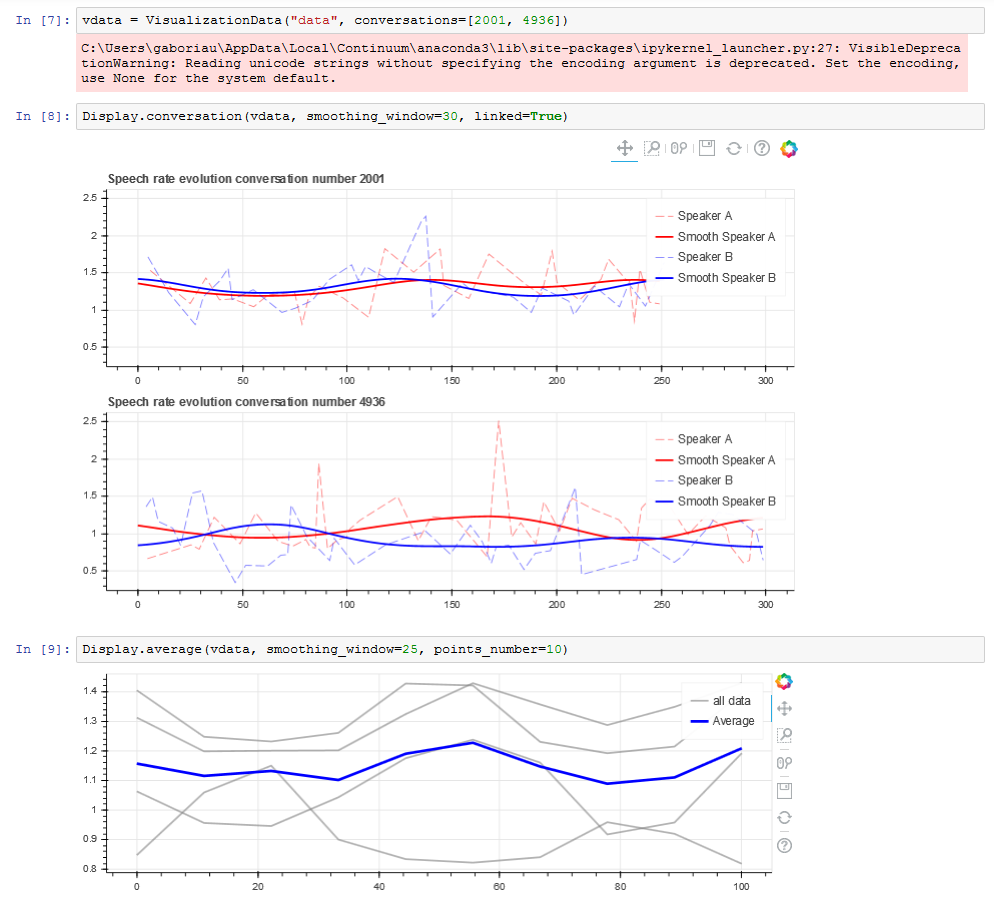
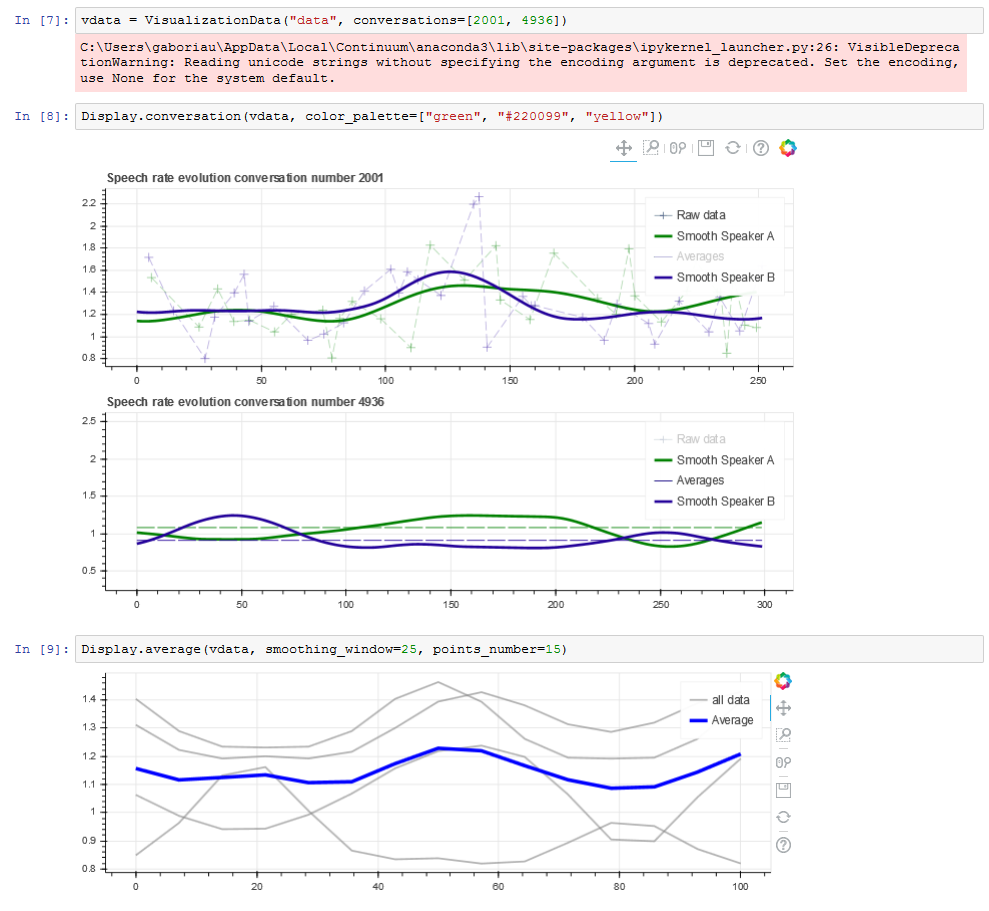
Visual changes, average added to conversation plot and window lenght adaptation improved

diff --git a/README.md b/README.md
@@ -11,11 +11,10 @@ data2 = VisualizationData("data_directory", conversation=[2001,2002,2003], speak
 
 *corpus* et *data_type* sont aussi des filtres disponibles.
 
-* **Fonctions d'affichage de la classe *Display* ** 
-  * ***Display.conversation*** affiche l'évolution du débit de parole des conversations composées des données selectionnées par l'objet *VisualizationData* passé en paramètre à coté de l'optionnel paramètre binaire *linked* qui à *True* synchronise l'affichage de chaque conversations, c'est à dire que l'on se déplace et selectionnent dans tous les graphiques à la fois. Par exemple le zoom appliqué sur une conversation est immédiatement répercuté sur les autres pour que la plages des abscisses et ordonnés restent les même.
+* **Fonctions d'affichage de la classe *Display*** 
+  * ***Display.conversation*** affiche l'évolution du débit de parole des conversations composées des données selectionnées par l'objet *VisualizationData* passé en paramètre à coté de l'optionnel paramètre binaire *linked* qui à *True* synchronise l'affichage de chaque conversations, c'est à dire que l'on se déplace et selectionnent dans tous les graphiques à la fois de façons à ce que que la plages des abscisses et ordonnés restent les mêmes. Un second paramètre optionnel est *color_palette* pour definir les couleur utilsées dans le graphes (voir exemple dans la capture ci-dessous).
   * ***Display.average*** affiche la courbe moyenne du débit de parole des données de l'objet *VisualizationData* passé en paramètre.
   * Dans les deux fonctions, cliquer sur la légende fait aparaitre/disparaitre les courbes. La finesse du lissage (*smoothing_window*) et le nombre de points de la courbe (*points_number*) sont modifiables en paramètres optionnels.
  
 Le code se situe dans le notebook ![notebook.ipynb](https://raw.githubusercontent.com/Antonin-Gaboriau/lpl-data-visualization-api/master/notebook.ipynb) pour Jupyter. Voici un exemple de son utilisation:
 ![Capture](https://raw.githubusercontent.com/Antonin-Gaboriau/lpl-data-visualization-api/master/Captures/capture1.PNG)
-
